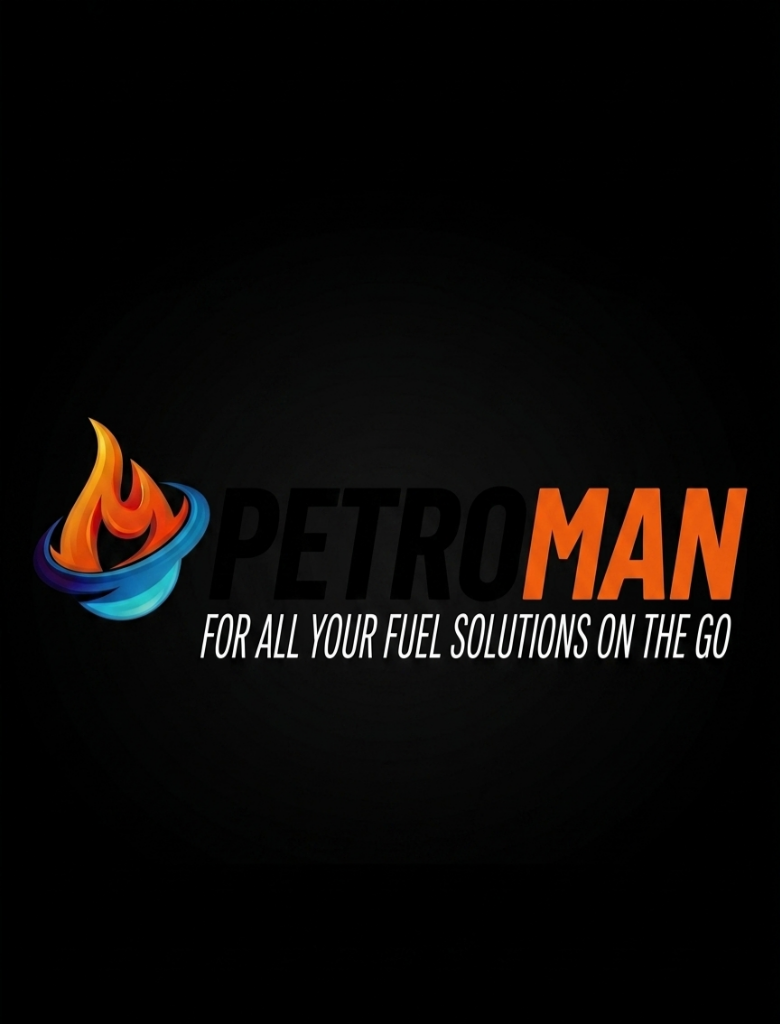
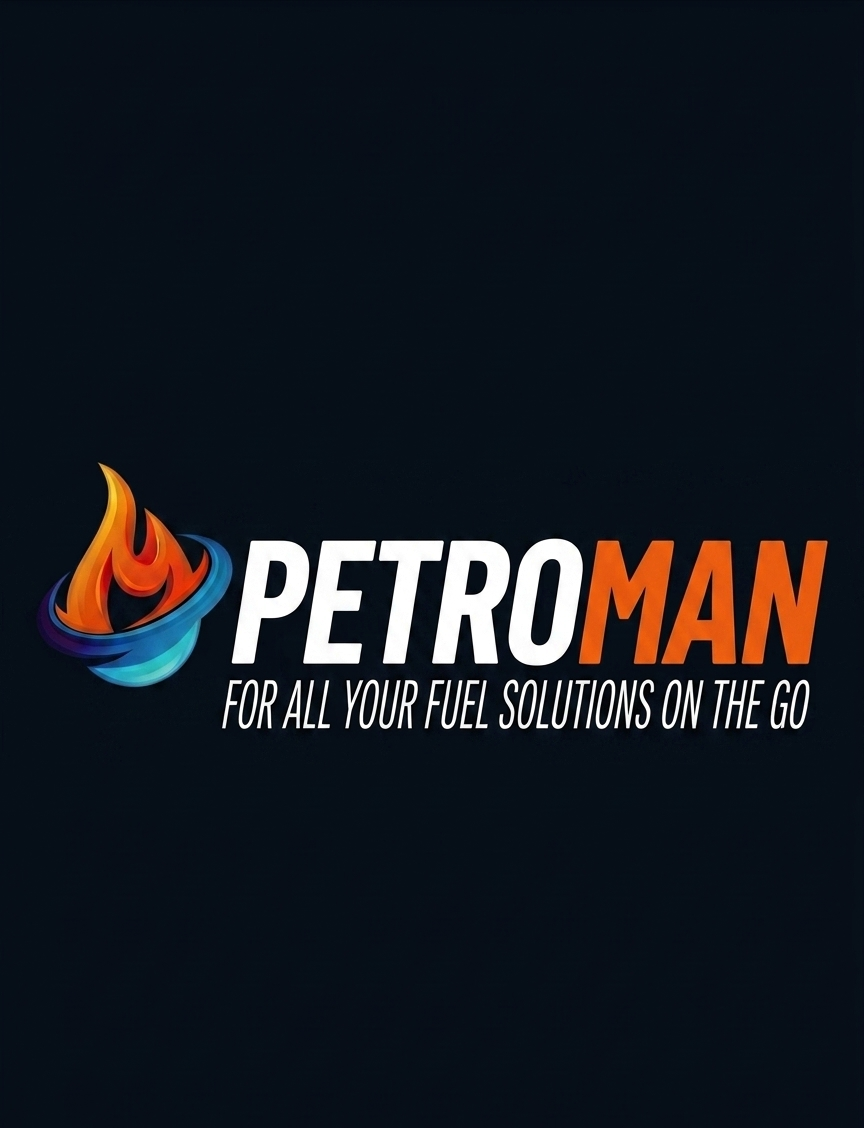
Add files via upload

diff --git a/styles.css b/styles.css
@@ -56,7 +56,7 @@ body {
     -webkit-backdrop-filter: blur(16px);
     border: 1px solid rgba(255, 255, 255, 0.15);
     border-radius: 20px;
-    padding: 3rem;
+    padding: 2rem;
     box-shadow: 0 20px 40px rgba(0, 0, 0, 0.4);
 }
 
@@ -241,13 +241,13 @@ body {
 }
 
 .hero-content {
-    max-width: 650px;
+    max-width: 500px;
 }
 
 .hero-content h1 {
-    font-size: 3.5rem;
+    font-size: 2.8rem;
     line-height: 1.2;
-    margin-bottom: 1.5rem;
+    margin-bottom: 1.2rem;
     font-weight: 800;
 }
 
@@ -629,8 +629,34 @@ footer {
 }
 
 @media (max-width: 768px) {
+    .hero-content {
+        max-width: 75%;
+        margin-right: auto;
+    }
+
     .hero-content h1 {
-        font-size: 2.5rem;
+        font-size: 1.4rem;
+        margin-bottom: 0.8rem;
+    }
+
+    .hero-content p {
+        font-size: 0.9rem;
+        margin-bottom: 1rem;
+    }
+
+    .glass-panel {
+        padding: 1rem;
+    }
+
+    .hero-buttons {
+        flex-direction: column;
+        gap: 0.5rem;
+    }
+
+    .hero-buttons .btn {
+        padding: 0.6rem 1rem;
+        font-size: 0.9rem;
+        text-align: center;
     }
     
     .mobile-menu-btn {